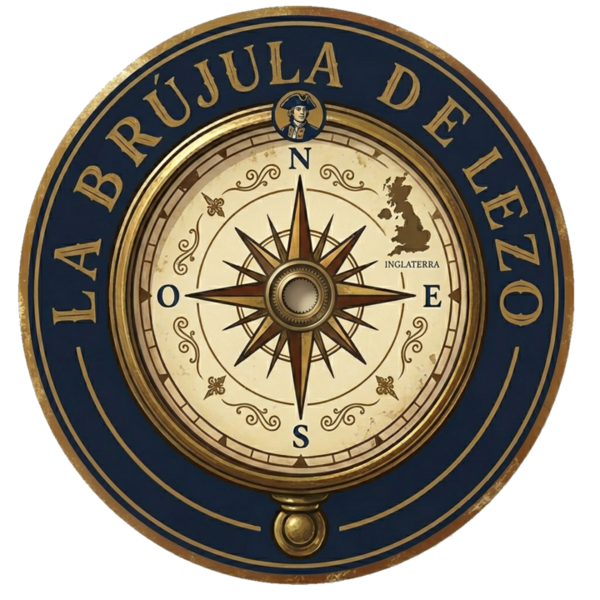
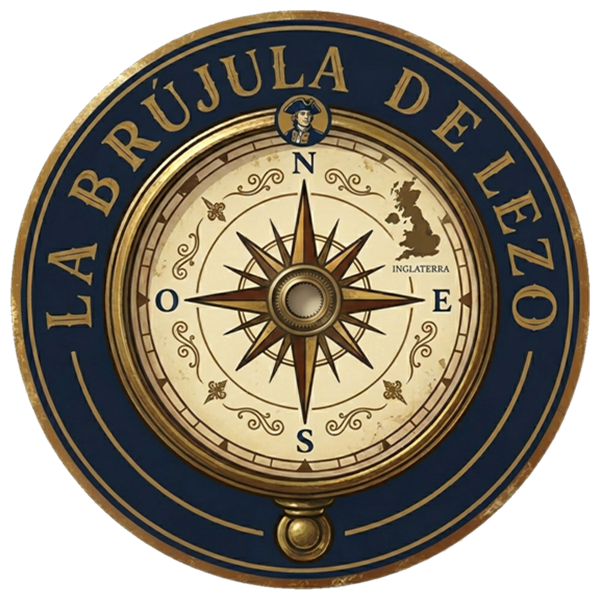
feat(ui): quitar el título y redondear la rosa
- Sin título en la pantalla: el nombre ya está grabado en la rosa. El
  botón de ajustes pasa a la fila del hueco de estado, que reserva a cada
  lado su ancho para que la pastilla siga centrada y no lo tape; la rosa
  gana el alto que ocupaba el título.
- compass_face.png no era redonda: el disco medía 949×988 px (un 4 % más
  estrecho) y su centro estaba desplazado (505, 503) respecto al eje de la
  aguja (512, 512). Se estira en horizontal y se recentra; el radio pasa
  de variar 20 px a 4 px, lo que da el borde envejecido. Igual con la
  copia de la web.

Claude-Session: https://claude.ai/code/session_01NS4svUXP4KAs7JfFD9xxiK

diff --git a/presentation/src/main/kotlin/com/brujuladelezo/presentation/CompassScreen.kt b/presentation/src/main/kotlin/com/brujuladelezo/presentation/CompassScreen.kt
@@ -67,7 +67,6 @@ import androidx.compose.ui.layout.Layout
 import androidx.compose.ui.semantics.LiveRegionMode
 import androidx.compose.ui.semantics.clearAndSetSemantics
 import androidx.compose.ui.semantics.contentDescription
-import androidx.compose.ui.semantics.heading
 import androidx.compose.ui.semantics.liveRegion
 import androidx.compose.ui.semantics.semantics
 import androidx.compose.ui.text.style.TextAlign
@@ -100,6 +99,9 @@ private val WideGap = 32.dp
 private val MaxDialSize = 420.dp
 private val MinDialSize = 200.dp
 private val MaxCardWidth = 520.dp
+
+/** Tamaño táctil mínimo de Material: lo que ocupa el IconButton de ajustes. */
+private val SettingsButtonSize = 48.dp
 private val TallGap = 12.dp
 
 private const val LOCATION_PERMISSION = Manifest.permission.ACCESS_COARSE_LOCATION
@@ -237,7 +239,7 @@ internal fun CompassContent(
 }
 
 /**
- * Cabecera, hueco de estado, tarjeta y cita miden lo que miden; la rosa se queda con el resto, así
+ * La fila superior (estado y ajustes), la tarjeta y la cita miden lo que miden; la rosa se queda con el resto, así
  * que no puede invadir ni la pastilla de "apuntando" ni la tarjeta (era lo que pasaba con una rosa de
  * tamaño fijo y el mensaje apareciendo encima). Si lo que queda no llega a [MinDialSize] (letra
  * muy grande en una pantalla baja), la rosa se queda en ese mínimo, todo se apila y la pantalla
@@ -255,8 +257,7 @@ private fun TallLayout(
     val verticalPadding = 16.dp
     Layout(
         content = {
-            Header(onOpenSettings)
-            StatusSlot(status)
+            TopBar(status, onOpenSettings)
             Dial(uiState, needleRotation, Modifier.fillMaxSize())
             DirectionCard(uiState, distanceUnit)
             Quote()
@@ -269,26 +270,23 @@ private fun TallLayout(
         val gap = TallGap.roundToPx()
         val width = constraints.maxWidth
         val loose = Constraints(maxWidth = width)
-        val header = measurables[0].measure(loose)
-        val slot = measurables[1].measure(loose)
+        val top = measurables[0].measure(loose)
         // En tablet en vertical, a todo el ancho la tarjeta quedaba como una franja vacía.
-        val card = measurables[3].measure(Constraints(maxWidth = minOf(width, MaxCardWidth.roundToPx())))
-        val quote = measurables[4].measure(loose)
+        val card = measurables[2].measure(Constraints(maxWidth = minOf(width, MaxCardWidth.roundToPx())))
+        val quote = measurables[3].measure(loose)
 
         // verticalScroll da alto infinito: el disponible es el de la ventana menos el padding.
         val available = (viewportHeight - verticalPadding * 2).roundToPx()
-        val fixed = header.height + slot.height + card.height + quote.height + gap * 4
+        val fixed = top.height + card.height + quote.height + gap * 3
         val dialSide = minOf(width, available - fixed, MaxDialSize.roundToPx())
             .coerceAtLeast(minOf(width, MinDialSize.roundToPx()))
-        val dial = measurables[2].measure(Constraints.fixed(dialSide, dialSide))
+        val dial = measurables[1].measure(Constraints.fixed(dialSide, dialSide))
 
         val height = maxOf(available, fixed + dialSide)
         layout(width, height) {
             var y = 0
-            header.placeRelative(0, y)
-            y += header.height + gap
-            slot.placeRelative((width - slot.width) / 2, y)
-            y += slot.height + gap
+            top.placeRelative(0, y)
+            y += top.height + gap
             // La rosa, centrada en el hueco entre el estado y la tarjeta.
             val dialSpace = height - y - card.height - quote.height - gap * 2
             dial.placeRelative((width - dialSide) / 2, y + (dialSpace - dialSide) / 2)
@@ -330,29 +328,23 @@ private fun WideLayout(
             horizontalAlignment = Alignment.CenterHorizontally,
             verticalArrangement = Arrangement.spacedBy(16.dp),
         ) {
-            Header(onOpenSettings)
-            StatusSlot(status)
+            TopBar(status, onOpenSettings)
             DirectionCard(uiState, distanceUnit)
             Quote()
         }
     }
 }
 
+/**
+ * Fila superior: el hueco de estado centrado y el botón de ajustes a la derecha. Sin título: el
+ * nombre ya va grabado en la propia rosa. El hueco reserva a cada lado el ancho del botón, así
+ * que la pastilla queda centrada en la pantalla y nunca pasa por debajo de él.
+ */
 @Composable
-private fun Header(onOpenSettings: () -> Unit) {
-    Row(
-        modifier = Modifier.fillMaxWidth(),
-        verticalAlignment = Alignment.CenterVertically,
-    ) {
-        Text(
-            text = stringResource(R.string.compass_title),
-            style = MaterialTheme.typography.titleLarge,
-            color = MaterialTheme.colorScheme.primary,
-            modifier = Modifier
-                .weight(1f)
-                .semantics { heading() },
-        )
-        IconButton(onClick = onOpenSettings) {
+private fun TopBar(status: CompassStatus, onOpenSettings: () -> Unit) {
+    Box(modifier = Modifier.fillMaxWidth(), contentAlignment = Alignment.Center) {
+        StatusSlot(status, Modifier.padding(horizontal = SettingsButtonSize))
+        IconButton(onClick = onOpenSettings, modifier = Modifier.align(Alignment.CenterEnd)) {
             Icon(
                 imageVector = BrujulaIcons.Settings,
                 contentDescription = stringResource(R.string.settings_open),
@@ -440,10 +432,10 @@ internal fun CompassUiState.status(): CompassStatus = when {
  * alrededor se desplaza al empezar o dejar de apuntar.
  */
 @Composable
-private fun StatusSlot(status: CompassStatus) {
+private fun StatusSlot(status: CompassStatus, modifier: Modifier = Modifier) {
     val colors = BrujulaTheme.colors
     Box(
-        modifier = Modifier.fillMaxWidth(),
+        modifier = modifier.fillMaxWidth(),
         contentAlignment = Alignment.Center,
     ) {
         SlotPill(

diff --git a/CLAUDE.md b/CLAUDE.md
@@ -129,9 +129,9 @@ Play exige API 36 para publicar actualizaciones. Los dos cambios de comportamien
 - **Edge-to-edge obligatorio, sin opt-out** (`windowOptOutEdgeToEdgeEnforcement` ya no sirve). `MainActivity` llama a `enableEdgeToEdge()` en `onCreate` y lo repite con `SystemBarStyle.auto { darkTheme }` cada vez que cambia el tema resuelto: con el tema forzado desde Ajustes, el default (que mira `Configuration.uiMode`) pintaría iconos oscuros sobre fondo oscuro. Hasta la primera lectura de ajustes `MainActivity` no compone nada (se ve el `windowBackground`) para no mostrar un fotograma en el tema equivocado. `CompassScreen` separa el fondo (pinta hasta los bordes) del contenido (`windowInsetsPadding(WindowInsets.safeDrawing)`). No se usa `Scaffold`: sin TopAppBar ni FAB, solo añadiría `PaddingValues` que propagar.
 - **Restricciones de orientación ignoradas en pantallas ≥600dp.** No hay `android:screenOrientation` en el manifest; el bloqueo es programático y gateado por `R.bool.lock_portrait_orientation` (`true` en `values/`, `false` en `values-sw600dp/` y en `src/debug/` para poder probar el apaisado en móvil). No se declara `PROPERTY_COMPAT_ALLOW_RESTRICTED_RESIZABILITY`, el opt-out disponible hasta API 37.
 
-**El layout no puede asumir vertical.** `CompassContent` usa `BoxWithConstraints` (no `LocalConfiguration.screenWidthDp`, lint `ConfigurationScreenWidthHeight`) y exige ancho ≥600dp **y** ventana apaisada para las dos columnas: con el ancho solo, una tablet en vertical deja media pantalla vacía. `compass_face.png` es 1024×1024, así que hasta ~420dp no hay reescalado (`MaxDialSize` = 420dp).
+**El layout no puede asumir vertical.** `CompassContent` usa `BoxWithConstraints` (no `LocalConfiguration.screenWidthDp`, lint `ConfigurationScreenWidthHeight`) y exige ancho ≥600dp **y** ventana apaisada para las dos columnas: con el ancho solo, una tablet en vertical deja media pantalla vacía. `compass_face.png` es 1024×1024, así que hasta ~420dp no hay reescalado (`MaxDialSize` = 420dp). Su disco tiene que ser redondo y estar centrado en (512, 512), que es donde pivota `compass_needle.png`: el original venía un 4 % más estrecho (949×988 px) y desplazado unos píxeles, y se corrigió en la 1.2.0 (también la copia de `docs/`). Si se cambia la imagen, medir el disco por el canal alfa antes de commitearla.
 
-**Nada puede solapar la rosa.** En vertical, `TallLayout` es un `Layout` propio: mide cabecera, hueco de estado y cita, y da a la rosa el alto restante (mínimo `MinDialSize`, 200dp); si no cabe, apila y deja desplazar. El hueco de estado (`StatusSlot`) compone siempre las cuatro pastillas superpuestas y muestra solo la activa (apuntando > calibrar > precisión), así que su alto no cambia al empezar o dejar de apuntar. Al apuntar, la rosa no cambia: lo avisan la pastilla y la vibración (hubo un halo burdeos alrededor y se quitó en la 1.2.0 por sobrar). Cualquier elemento nuevo en la pantalla de la brújula entra en ese `Layout`, no encima de la rosa. Las previews de `CompassScreen.kt` cubren móvil, móvil pequeño, apaisado, tablet en ambas orientaciones, letra x2 y oscuro.
+**Nada puede solapar la rosa.** En vertical, `TallLayout` es un `Layout` propio: mide la fila superior (`TopBar`: hueco de estado centrado y botón de ajustes; no hay título, el nombre ya va grabado en la rosa), la tarjeta y la cita, y da a la rosa el alto restante (mínimo `MinDialSize`, 200dp); si no cabe, apila y deja desplazar. El hueco de estado (`StatusSlot`) compone siempre las cuatro pastillas superpuestas y muestra solo la activa (apuntando > calibrar > precisión), así que su alto no cambia al empezar o dejar de apuntar. Al apuntar, la rosa no cambia: lo avisan la pastilla y la vibración (hubo un halo burdeos alrededor y se quitó en la 1.2.0 por sobrar). Cualquier elemento nuevo en la pantalla de la brújula entra en ese `Layout`, no encima de la rosa. Las previews de `CompassScreen.kt` cubren móvil, móvil pequeño, apaisado, tablet en ambas orientaciones, letra x2 y oscuro.
 
 **Tipografía empaquetada.** Fraunces (títulos, cita, distancia) e IBM Plex Sans (resto), las mismas que la web, como TTF estáticos con subconjunto latino en `design-system/src/main/res/font/`; licencias OFL en `licenses/`. Plex tiene cifras tabulares por defecto; Fraunces no, así que no se usa para números que cambian a menudo. Los TTF de Google Fonts vienen sin la característica `tnum`.
 
